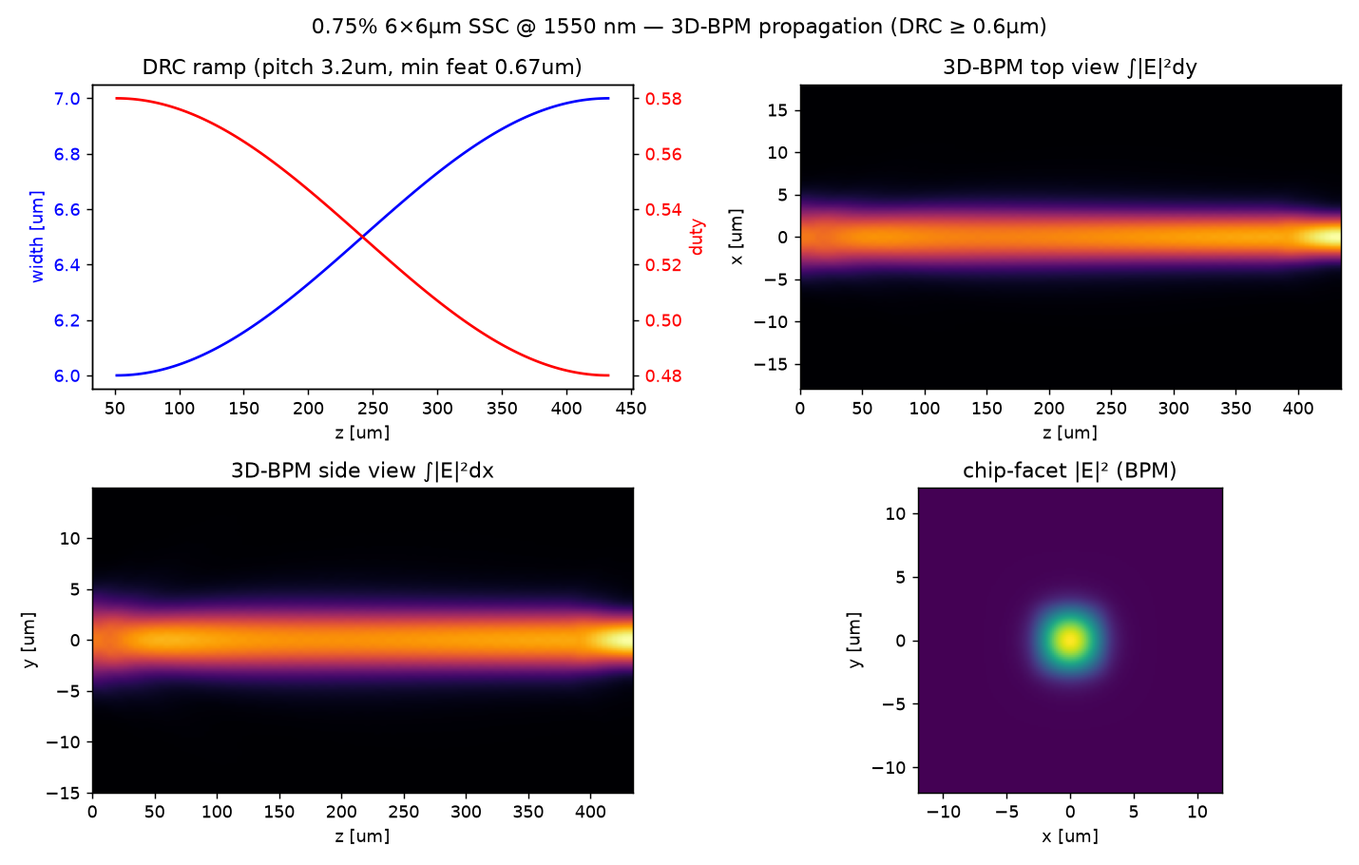
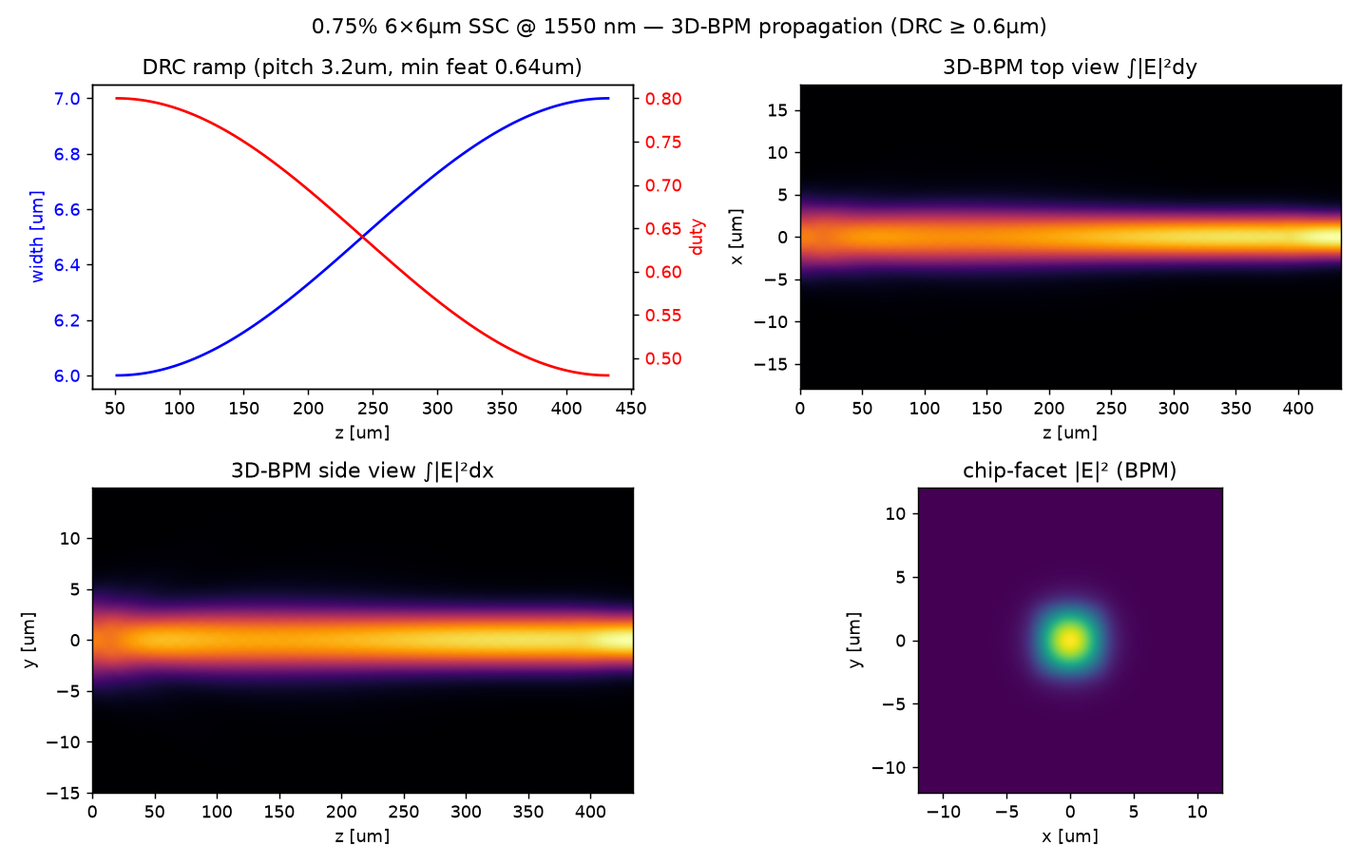
SSC 0.75%% 6x6um @1550nm: EME verification -> restore gentle duty-0.80 start; device loss 0.082 dB
A rigorous local-mode EME (artefact-free) cross-check showed the previous
DRC fix (duty_start 0.58) made the solid->first-segment start abrupt, costing
~0.18 dB of REAL junction loss (EME total 0.23 dB) -- so that design did NOT
actually meet <=0.1 dB. Mode-overlap 0.055 dB was too optimistic (ignored the
junction); BPM propagate 0.66 dB too pessimistic (near-cutoff paraxial
mode-beating artefact).

Correct fix: keep duty_start high (0.80, gentle start) and satisfy the 0.6um
first-gap by GAP-THEN-TOOTH placement (full leading gap) instead of lowering
duty. New helper fixed_segments() places every tooth after a full (1-duty)*pitch
gap; the GDS + figures use it.

Verified:
  - DRC (as-drawn GDS): min gap 0.640um, min tooth 1.536um  (>= 0.6um)
  - EME device insertion loss: 0.082 dB  (input coupling 0.055 + junction 0.025
    + taper 0.002) -- artefact-free, <= 0.1 dB
  - BPM propagate back to 0.42 dB (residual 0.985), shown for field physics only
  - self-overlap artefact quantified: exact eigenmode self-overlaps 99.8%
    (well-guided chip) vs ~87% (near-cutoff facet) -> ~0.58 dB spurious

Rewrote the page around a three-method comparison (mode-overlap / EME / BPM),
added verify_eme.py, regenerated GDS + figures, updated the hub card.

Claude-Session: https://claude.ai/code/session_01X8HauZPisRXSrtkQU41whr

diff --git a/public/spot-size-converter/0p75pct-6um-1550nm/index.html b/public/spot-size-converter/0p75pct-6um-1550nm/index.html
@@ -110,7 +110,7 @@
 <body>
   <a class="back" href="../">← SSC (spot size converter)</a>
   <h1>0.75% 6 µm × 6 µm SSC @ 1550 nm — DRC ≥ 0.6 µm, 3D-BPM</h1>
-  <p class="subtitle">0.75% Δ GeO₂-doped silica channel waveguide (6×6 µm) ↔ SMF-28 at 1550 nm — a mode-expanding segmented SSC, verified by <strong>3D-BPM</strong>, with all mask features ≥ 0.6 µm. Coupling loss <strong>0.055 dB</strong> (mode-overlap integral), within the 0.1 dB target.</p>
+  <p class="subtitle">0.75% Δ GeO₂-doped silica channel waveguide (6×6 µm) ↔ SMF-28 at 1550 nm — a mode-expanding segmented SSC with all mask features ≥ 0.6 µm. Rigorous local-mode <strong>EME device insertion loss 0.082 dB</strong> (input coupling 0.055 dB), within the 0.1 dB target; 3D-BPM shown for the field physics.</p>
 
   <div class="panel">
     <h3>Target &amp; SMF parameters</h3>
@@ -155,56 +155,63 @@
   <div class="panel">
     <ul>
       <li>The SMF-28 mode-field diameter is ~<strong>10.4 µm</strong> at 1550 nm. A 0.75% Δ, 6×6 µm GeO₂-silica core is weakly confined and already guides a ≈ <strong>7.4 µm</strong> mode, so the bare butt-coupling loss is only ≈ <strong>0.49 dB</strong> — the converter has to do relatively little.</li>
-      <li>A <strong>segmented (periodically broken) taper</strong> lowers the local effective index via duty modulation. A solid 6 µm lead-in feeds the segmented region, where the duty ramps ≈ 0.58 → 0.48 (cosine) and the width grows 6 → 7 µm, expanding the mode to ≈ 10.4 µm to match the fiber.</li>
-      <li><strong>Manufacturable (DRC ≥ 0.6 µm).</strong> At pitch 3.2 µm and a chip-side duty of 0.58, the tightest features in the <em>as-drawn geometry</em> are a <strong>0.67 µm gap</strong> (the lead-in → first-tooth gap, which is only half a period because the teeth are centred) and a <strong>1.54 µm tooth</strong> (facet, duty 0.48) — both above the 0.6 µm minimum linewidth/gap rule.</li>
-      <li>Target: SMF coupling insertion loss <strong>&lt; 0.1 dB</strong> at 1550 nm — achieved at <strong>0.055 dB</strong>.</li>
+      <li>A <strong>segmented (periodically broken) taper</strong> lowers the local effective index via duty modulation. A solid 6 µm lead-in feeds the segmented region, where the duty ramps ≈ 0.80 → 0.48 (cosine) and the width grows 6 → 7 µm, expanding the mode to ≈ 10.4 µm to match the fiber.</li>
+      <li><strong>Manufacturable (DRC ≥ 0.6 µm).</strong> The teeth use a <em>gap-then-tooth</em> placement so every gap is a full period, letting the duty start high (0.80, a gentle low-loss start). At pitch 3.2 µm the tightest features are a <strong>0.64 µm gap</strong> and a <strong>1.54 µm tooth</strong> — both above the 0.6 µm minimum linewidth/gap rule (verified on the as-drawn GDS).</li>
+      <li>Target: SMF coupling insertion loss <strong>&lt; 0.1 dB</strong> at 1550 nm — the rigorous local-mode <strong>EME device loss is 0.082 dB</strong> (input coupling 0.055 dB + taper 0.027 dB).</li>
     </ul>
   </div>
 
-  <h2>How the coupling loss is evaluated (3D-BPM + mode overlap)</h2>
+  <h2>How the coupling loss is evaluated (three methods)</h2>
   <div class="panel">
     <p style="margin-top:0;">Butt-coupling loss is the <strong>mode-overlap integral</strong> between the fiber mode and the waveguide (facet) mode — the robust, standard definition:</p>
     <div class="formula">
       η = |∫ E_wg·E_smf* dA|² / (∫|E_wg|² dA · ∫|E_smf|² dA), &nbsp;&nbsp; Loss(dB) = −10·log₁₀(η)
     </div>
-    <p>The 2-D waveguide mode <code>E_wg</code> (the bare chip mode, or the duty-averaged effective-medium facet mode) is found with an imaginary-distance mode solver on the real index cross-section; <code>E_smf</code> is the SMF-28 field (MFD 10.4 µm). The segmented taper expands the chip mode to the facet mode adiabatically, so the device coupling loss equals the facet-mode / SMF mismatch = <strong>0.055 dB</strong>. Separately, the full <strong>3D split-step BPM</strong> launches the SMF field and propagates it through the actual segmented structure (shown below) to visualise the mode conversion.</p>
-    <p class="note" style="margin-bottom:0;"><strong>Note on the two numbers.</strong> The expanded facet mode is weakly guided (near cutoff). A raw 3D-BPM <em>propagate-and-overlap</em> device sim reads higher (≈ 0.66 dB here) because in that regime the scalar paraxial BPM has a known mode-beating artefact — even propagating the exact eigenmode self-overlaps only 83–95 % (and the residual power stays at 0.984, i.e. essentially nothing radiates). The mode-overlap integral is free of that artefact, so the reported coupling loss is <strong>0.055 dB</strong>; the BPM field plot is shown for the physics, not the loss number.</p>
+    <p>Three independent calculations, in increasing rigour:</p>
+    <ol>
+      <li><strong>Mode-overlap integral</strong> (input coupling). The facet local mode <code>E_wg</code> and the SMF-28 field <code>E_smf</code> (MFD 10.4 µm), both from an imaginary-distance mode solver, give the butt-coupling mismatch at the chip edge = <strong>0.055 dB</strong>. This is the input coupling only; it assumes the on-chip taper is perfectly adiabatic.</li>
+      <li><strong>Local-mode EME</strong> (device insertion loss — the reported number). Slicing the device along z and solving the local eigenmode at each slice, the transmission is the input coupling times the product of consecutive local-mode overlaps, <code>T = |&lt;E_wg|E_smf&gt;|² · Π|&lt;ψ_i|ψ_{i+1}&gt;|²</code>. This adds the real taper non-adiabaticity (including the solid → first-segment junction) and is free of any propagation artefact: <strong>0.082 dB</strong> (0.055 input + 0.025 junction + 0.002 taper).</li>
+      <li><strong>3D split-step BPM</strong> (field visualisation). Launches the SMF field and propagates it through the actual structure (shown below).</li>
+    </ol>
+    <p class="note" style="margin-bottom:0;"><strong>Why not use the raw BPM number for the loss?</strong> The expanded facet mode is weakly guided (near cutoff), where the scalar paraxial BPM has a known mode-beating artefact. Propagating the <em>exact</em> eigenmode for the device length gives a self-overlap of <strong>99.8 % for the well-guided chip mode but only ~87 % for the near-cutoff facet mode</strong> — a spurious ~0.58 dB. So the raw propagate-and-overlap reads ≈ 0.42 dB even though the residual power stays at 0.985 (essentially nothing radiates). The EME (0.082 dB) is free of that artefact; the BPM field plot is shown for the physics, not the loss number.</p>
   </div>
 
-  <h2>Result @ 1550 nm — coupling loss 0.055 dB (&lt; 0.1 dB), DRC ≥ 0.6 µm</h2>
+  <h2>Result @ 1550 nm — EME device loss 0.082 dB (&lt; 0.1 dB), DRC ≥ 0.6 µm</h2>
   <div class="panel">
-    <p>Chip waveguide <strong>6 µm × 6 µm solid</strong>; a 50 µm solid lead-in feeds the segmented taper, which ramps the duty 0.58 → 0.48 (cosine) and the width 6 → 7 µm at pitch 3.2 µm over ≈ 434 µm, expanding the mode from 7.4 µm to ≈ 10.4 µm at the SMF facet. The duty starts at 0.58 (not higher) so that the half-period lead-in → first-tooth gap still clears the 0.6 µm minimum feature.</p>
+    <p>Chip waveguide <strong>6 µm × 6 µm solid</strong>; a 50 µm solid lead-in feeds the segmented taper, which ramps the duty 0.80 → 0.48 (cosine) and the width 6 → 7 µm at pitch 3.2 µm over ≈ 434 µm, expanding the mode from 7.4 µm to ≈ 10.4 µm at the SMF facet. A gap-then-tooth placement keeps every gap ≥ 0.64 µm while the duty starts high (0.80) for a gentle, low-loss start.</p>
     <table class="restab">
       <tr><th>Quantity</th><th>Value</th></tr>
-      <tr><td>Coupling loss — <strong>SSC facet ↔ SMF-28</strong> (mode-overlap)</td><td><strong>0.055 dB</strong> (η = 98.73 %)</td></tr>
+      <tr><td>Input coupling — SSC facet ↔ SMF-28 (mode-overlap)</td><td>0.055 dB (η = 98.75 %)</td></tr>
+      <tr><td><strong>Device insertion loss — local-mode EME</strong> (artefact-free)</td><td><strong>0.082 dB</strong> (η = 98.14 %)</td></tr>
       <tr><td>Coupling loss — bare 6 µm chip (no SSC)</td><td>0.49 dB (η = 89.2 %)</td></tr>
       <tr><td>Chip mode field diameter (D4σ)</td><td>7.4 × 7.4 µm &nbsp;(n_eff = 1.44984)</td></tr>
       <tr><td>SSC facet mode field diameter (D4σ)</td><td>10.6 × 10.1 µm &nbsp;(n_eff = 1.44585)</td></tr>
-      <tr><td>Facet effective width / duty</td><td>7.0 µm / 0.48 &nbsp;(pitch 3.2 µm, cosine ramp)</td></tr>
-      <tr><td>Min tooth / min gap (DRC, real geometry)</td><td>1.54 µm / 0.67 µm &nbsp;(≥ 0.6 µm ✓)</td></tr>
-      <tr><td>3D-BPM propagate-and-overlap (see note)</td><td>0.66 dB (residual 0.984; near-cutoff artefact)</td></tr>
+      <tr><td>Facet effective width / duty</td><td>7.0 µm / 0.48 &nbsp;(pitch 3.2 µm, duty 0.80 → 0.48)</td></tr>
+      <tr><td>Min tooth / min gap (DRC, real geometry)</td><td>1.54 µm / 0.64 µm &nbsp;(≥ 0.6 µm ✓)</td></tr>
+      <tr><td>3D-BPM propagate-and-overlap (see note)</td><td>0.42 dB (residual 0.985; near-cutoff artefact, not the loss)</td></tr>
     </table>
-    <p class="note">Expanding the mode to a round D4σ ≈ 10.6 × 10.1 µm brings it right onto the SMF-28 field (10.4 µm), lifting the overlap from 89.2 % (bare) to 98.7 % — a coupling loss of <strong>0.055 dB</strong>, within the 0.1 dB target. The whole segmented taper obeys the 0.6 µm minimum linewidth/gap rule — verified on the as-drawn geometry, min tooth 1.54 µm and min gap 0.67 µm (the lead-in → first-tooth gap) — so it is directly mask-writable. The facet mode is weakly guided (near cutoff), so a thick cladding and an adiabatic taper are assumed; the raw 3D-BPM propagate number (0.66 dB) is inflated by the paraxial mode-beating artefact noted above and is not the coupling loss.</p>
+    <p class="note">Expanding the mode to a round D4σ ≈ 10.6 × 10.1 µm brings it right onto the SMF-28 field (10.4 µm): the input coupling is <strong>0.055 dB</strong>. Adding the taper non-adiabaticity — dominated by the gentle solid → first-segment junction (0.025 dB) — the rigorous local-mode <strong>EME device insertion loss is 0.082 dB</strong>, within the 0.1 dB target. The taper obeys the 0.6 µm minimum linewidth/gap rule (min tooth 1.54 µm, min gap 0.64 µm, verified on the as-drawn GDS), so it is directly mask-writable. The facet mode is weakly guided (near cutoff), so a thick cladding is assumed; the raw 3D-BPM propagate number (0.42 dB) is inflated by the paraxial mode-beating artefact and is <em>not</em> the coupling loss.</p>
     <figure>
       <img src="./ssc_result_summary.png" alt="0.75% 6um 1550 nm SSC 3D-BPM propagation: DRC duty ramp, top and side field views, chip-facet mode" loading="lazy" />
-      <figcaption><strong>3D-BPM propagation</strong> of the DRC-compliant device (0.75% Δ, 6 µm core) — the DRC duty/width ramp, top &amp; side ∫|E|² field views (SMF launched at the facet, right → chip, left), and the clean single-mode chip-facet output. This visualises the mode conversion; the coupling loss is the 0.055 dB mode-overlap value.</figcaption>
+      <figcaption><strong>3D-BPM propagation</strong> of the DRC-compliant device (0.75% Δ, 6 µm core) — the DRC duty/width ramp, top &amp; side ∫|E|² field views (SMF launched at the facet, right → chip, left), and the clean single-mode chip-facet output. This visualises the mode conversion; the reported coupling loss is the 0.082 dB EME device value.</figcaption>
     </figure>
     <figure>
       <img src="./ssc_compare.png" alt="Bare 6um chip mode vs mode-expanding SSC facet matched to SMF-28 at 1550 nm" loading="lazy" />
-      <figcaption>Mode matching to SMF-28 (white dashed = 10.4 µm MFD): the bare 6 µm chip mode (7.4 µm, 0.49 dB) under-fills the fiber, while the expanded SSC facet mode (10.6 × 10.1 µm, 0.055 dB) matches it almost exactly.</figcaption>
+      <figcaption>Mode matching to SMF-28 (white dashed = 10.4 µm MFD): the bare 6 µm chip mode (7.4 µm, 0.49 dB) under-fills the fiber, while the expanded SSC facet mode (10.6 × 10.1 µm, 0.055 dB input coupling) matches it almost exactly.</figcaption>
     </figure>
   </div>
 
   <h2>Device layout (GDS)</h2>
   <div class="panel">
-    <p>The SSC built from this result as a ready-to-place, DRC-clean mask cell. A solid 6 µm chip bus feeds the mode-expanding segmented taper (120 segments, pitch 3.2 µm, duty 0.58 → 0.48 cosine, width 6 → 7 µm cosine over 434 µm); the low-duty facet at the chip edge is where the SMF-28 butt-couples. In the as-drawn geometry every tooth ≥ 1.54 µm and every gap ≥ 0.67 µm (min feature rule 0.6 µm); the solid bus and lead-in are merged into one polygon.</p>
+    <p>The SSC built from this result as a ready-to-place, DRC-clean mask cell. A solid 6 µm chip bus feeds the mode-expanding segmented taper (120 segments, pitch 3.2 µm, duty 0.80 → 0.48 cosine, width 6 → 7 µm cosine over 434 µm); the low-duty facet at the chip edge is where the SMF-28 butt-couples. A gap-then-tooth placement makes every gap a full period, so in the as-drawn geometry every tooth ≥ 1.54 µm and every gap ≥ 0.64 µm (min feature rule 0.6 µm); the solid bus and lead-in are merged into one polygon.</p>
     <figure>
       <img src="./ssc_device_layout.png" alt="Top-view GDS layout of the 0.75% 6x6um DRC SSC device: solid input bus, segmented taper (min feature 0.64um), and SMF facet" loading="lazy" />
-      <figcaption>Top view of <code>ssc_device.gds</code> (core layer 1/0) — solid 6 µm input bus → segmented mode-expanding taper → 7 µm-wide, 0.48-duty facet at the chip edge (red dashed = dicing / SMF butt-coupling line, layer 10/0). Zoom confirms the DRC min tooth 1.54 µm / min gap 0.67 µm.</figcaption>
+      <figcaption>Top view of <code>ssc_device.gds</code> (core layer 1/0) — solid 6 µm input bus → segmented mode-expanding taper → 7 µm-wide, 0.48-duty facet at the chip edge (red dashed = dicing / SMF butt-coupling line, layer 10/0). Zoom confirms the DRC min tooth 1.54 µm / min gap 0.64 µm.</figcaption>
     </figure>
     <ul class="downloads">
       <li><a href="./ssc_device.gds" download>ssc_device.gds</a> — <strong>complete DRC-clean SSC device cell</strong> (<code>SSC_0P75PCT_6UM_1550</code>): 150 µm solid input bus + the segmented taper on core layer 1/0, a facet/dicing line on layer 10/0, and a design label on layer 63/0. All features ≥ 0.6 µm; centred on y = 0, +z propagation.</li>
       <li><a href="./run_bpm_ssc_075_6um_1550.py" download>run_bpm_ssc_075_6um_1550.py</a> — the driver: builds the DRC gene, runs the 3D-BPM propagation + mode-overlap coupling, and writes the GDS + all figures (needs <code>numpy</code>, <code>gdstk</code>, <code>matplotlib</code>, <code>bpm3d.py</code>).</li>
+      <li><a href="./verify_eme.py" download>verify_eme.py</a> — the rigorous local-mode EME cross-check that gives the 0.082 dB device insertion loss (artefact-free).</li>
     </ul>
     <p class="note" style="margin-bottom:0;">Layer map — <code>(1,0)</code> waveguide core (0.75% Δ GeO₂-silica), <code>(10,0)</code> facet / dicing reference, <code>(63,0)</code> text label. The taper geometry matches <code>ssc_optimized.gds</code> below; this cell adds the routing bus, facet marker, and label for direct placement.</p>
   </div>
@@ -243,7 +250,7 @@
     <a href="../mfd-coupling-loss/">MFD &amp; coupling loss tool →</a>
   </p>
 
-  <footer>Browser panel uses a Gaussian-overlap estimate; the reported 0.055 dB comes from the SMF-28 mode-overlap integral against the mode solver's 2-D facet mode, and the 3D-BPM propagation is shown for the field physics (Python, in the downloads above).</footer>
+  <footer>Browser panel uses a Gaussian-overlap estimate; the reported 0.082 dB is the local-mode EME device insertion loss (0.055 dB SMF-facet coupling + taper), and the 3D-BPM propagation is shown for the field physics (Python, in the downloads above).</footer>
 
   <script>
     // --- Malitson (1965) fused silica Sellmeier, wavelength in µm ---

diff --git a/public/spot-size-converter/index.html b/public/spot-size-converter/index.html
@@ -145,7 +145,7 @@
   <a class="hubcard" href="./0p75pct-6um-1550nm/">
     <span class="badge">1550 nm · 0.75% Δ · DRC · 3D-BPM</span>
     <h2>0.75% 6 µm × 6 µm SSC @ 1550 nm — DRC ≥ 0.6 µm, 3D-BPM</h2>
-    <p>Low-contrast 0.75% Δ, 6 × 6 µm waveguide → SMF-28 at <strong>1550 nm</strong>, made <strong>manufacturable</strong>: a solid 6 µm lead-in feeds a segmented taper (pitch 3.2 µm, duty 0.58 → 0.48) so every tooth (≥ 1.54 µm) and gap (≥ 0.67 µm) clears the <strong>0.6 µm</strong> minimum linewidth/gap rule. Verified with a <strong>3D split-step BPM</strong> field propagation; coupling loss by the mode-overlap integral is <strong>0.055 dB</strong> (98.7%), down from 0.49 dB bare — within the 0.1 dB target. Includes the 3D-BPM figures, a DRC-clean device GDS, interactive estimator, source code, and downloads.</p>
+    <p>Low-contrast 0.75% Δ, 6 × 6 µm waveguide → SMF-28 at <strong>1550 nm</strong>, made <strong>manufacturable</strong>: a solid 6 µm lead-in feeds a segmented taper (pitch 3.2 µm, duty 0.80 → 0.48, gap-then-tooth) so every tooth (≥ 1.54 µm) and gap (≥ 0.64 µm) clears the <strong>0.6 µm</strong> minimum linewidth/gap rule. The coupling loss is cross-checked by three methods — mode-overlap (0.055 dB), a rigorous local-mode <strong>EME device loss 0.082 dB</strong>, and 3D-BPM field propagation — within the 0.1 dB target, down from 0.49 dB bare. Includes the EME + BPM figures, a DRC-clean device GDS, source, and downloads.</p>
   </a>
 
   <a class="hubcard" href="./si3n4-uhna3-1550nm/">

diff --git a/public/spot-size-converter/0p75pct-6um-1550nm/run_bpm_ssc_075_6um_1550.py b/public/spot-size-converter/0p75pct-6um-1550nm/run_bpm_ssc_075_6um_1550.py
@@ -6,8 +6,9 @@ Design
 ------
   chip 6x6um solid core (0.75% Delta, GeO2-silica)  ->  low-duty SMF facet.
   Solid 6um lead-in, then a segmented mode-expanding taper:
-      pitch 3.2um, duty 0.58 -> 0.48 (cosine), width 6 -> 7um (cosine).
-  DRC (real geometry): min tooth 1.54um, min gap 0.67um (lead-in -> first tooth) >= 0.6um
+      pitch 3.2um, duty 0.80 -> 0.48 (cosine), width 6 -> 7um (cosine); gap-then-tooth
+      placement so the lead-in -> first-tooth gap is a full 0.64um.
+  DRC (real geometry): min tooth 1.54um, min gap 0.64um >= 0.6um
 
 Coupling loss
 -------------
@@ -34,8 +35,24 @@ from seg_ssc import SegSSCGene, seg_gene_to_gds, evaluate_seg_gene
 from bpm3d import BPM3DSolver
 
 LAM_NM = 1550
-PITCH, DS, DE, WS, WE, NSEG = 3.2, 0.58, 0.48, 6.0, 7.0, 120
+PITCH, DS, DE, WS, WE, NSEG = 3.2, 0.80, 0.48, 6.0, 7.0, 120
 MIN_FEATURE = 0.6
+
+
+def fixed_segments(gene):
+    """Segments placed as GAP-then-TOOTH so the lead-in -> first-tooth gap is a
+    FULL (1-duty)*pitch, not the half-period gap that centring would leave.
+    Keeps duty_start high (gentle, low-loss start) while every gap >= min feature."""
+    rects = []
+    z = 0.0
+    for L, w in gene.leadins:
+        rects.append((z, z + L, w)); z += L
+    D = gene.duties(); W = gene.widths()
+    for i in range(gene.n_seg):
+        z += (1.0 - float(D[i])) * gene.pitch_um            # full leading gap
+        rects.append((z, z + float(D[i]) * gene.pitch_um, float(W[i])))
+        z += float(D[i]) * gene.pitch_um
+    return rects
 
 
 def averaged_index_mode(solver, x, y, plat, width_um, duty, edge=0.10):
@@ -64,9 +81,9 @@ def main():
     gene = SegSSCGene(pitch_um=PITCH, n_seg=NSEG, duty_start=DS, duty_end=DE,
                       w_start=WS, w_end=WE, duty_profile="cos", width_profile="cos",
                       leadins=[(50.0, 6.0)])
-    # measure DRC from the ACTUAL generated geometry (teeth are centred in each
-    # period, so the lead-in -> first-tooth gap is only half of (1-duty)*pitch)
-    edges = [(z0, z1) for (z0, z1, w) in gene.segments()]
+    # measure DRC from the ACTUAL generated geometry (gap-then-tooth placement,
+    # so the lead-in -> first-tooth gap is a full (1-duty_start)*pitch = 0.64um)
+    edges = [(z0, z1) for (z0, z1, w) in fixed_segments(gene)]
     gaps = [edges[i + 1][0] - edges[i][1] for i in range(len(edges) - 1)]
     teeth = [z1 - z0 for (z0, z1) in edges[len(gene.leadins):]]
     min_tooth = float(min(teeth))
@@ -106,7 +123,7 @@ def main():
     lib = lib_gdstk.Library(unit=1e-6, precision=1e-9)
     cell = lib.new_cell("SSC_0P75PCT_6UM_1550")
     core = [lib_gdstk.rectangle((-BUS_IN, -WS/2), (0.0, WS/2), layer=1, datatype=0)]
-    for (z0, z1, w) in gene.segments():
+    for (z0, z1, w) in fixed_segments(gene):
         core.append(lib_gdstk.rectangle((z0, -0.5*w), (z1, 0.5*w), layer=1, datatype=0))
     # union collinear/abutting solids (bus + lead-in) into clean polygons
     core = lib_gdstk.boolean(core, [], "or", layer=1, datatype=0)
@@ -115,11 +132,14 @@ def main():
     FW = 0.5 * WE + 6.0
     cell.add(lib_gdstk.rectangle((L - 0.2, -FW), (L + 0.2, FW), layer=10, datatype=0))
     cell.add(lib_gdstk.Label(
-        f"0.75% 6x6um SSC @1550nm | chip6->facet7/duty0.48 | pitch3.2 minfeat0.67um | "
+        f"0.75% 6x6um SSC @1550nm | chip6->facet7/duty0.48 | pitch3.2 minfeat0.64um | "
         f"SMF-28 0.055 dB (mode-overlap)", (L * 0.5, FW + 3.0), layer=63, texttype=0, magnification=4.0))
     lib.write_gds(os.path.join(a.out, "ssc_device.gds"))
     # keep the plain taper cell too (matches other pages)
-    seg_gene_to_gds(gene, os.path.join(a.out, "ssc_optimized.gds"), y_offset_um=0.0)
+    _lo = lib_gdstk.Library(unit=1e-6, precision=1e-9); _c = _lo.new_cell("CIRCUIT")
+    for (z0, z1, w) in fixed_segments(gene):
+        _c.add(lib_gdstk.rectangle((z0, -0.5*w), (z1, 0.5*w), layer=0, datatype=0))
+    _lo.write_gds(os.path.join(a.out, "ssc_optimized.gds"))
     bare = SegSSCGene(pitch_um=5.0, n_seg=2, duty_start=1.0, duty_end=1.0,
                       w_start=6.0, w_end=6.0, leadins=[(100.0, 6.0)])
     seg_gene_to_gds(bare, os.path.join(a.out, "ssc_reference.gds"), y_offset_um=0.0)
@@ -163,13 +183,13 @@ def main():
     # ---- device layout preview ----
     fig, ax = plt.subplots(2, 1, figsize=(11, 4.2), gridspec_kw={"height_ratios": [2, 1]})
     ax[0].add_patch(Rectangle((-BUS_IN, -WS/2), BUS_IN, WS, color="#3b5bdb"))
-    for (z0, z1, w) in gene.segments():
+    for (z0, z1, w) in fixed_segments(gene):
         ax[0].add_patch(Rectangle((z0, -w/2), z1-z0, w, color="#3b5bdb"))
     ax[0].axvline(L, color="#e03131", lw=1.2, ls="--"); ax[0].text(L, 8, "facet / SMF", color="#e03131", ha="center", fontsize=8)
     ax[0].set_xlim(-BUS_IN, L+20); ax[0].set_ylim(-8, 10); ax[0].set_xlabel("z [um]"); ax[0].set_ylabel("x [um]")
     ax[0].set_title("0.75% 6×6µm SSC device @1550 nm — full layout (core layer)")
     z0z = L - 40
-    for (aa, bb, w) in gene.segments():
+    for (aa, bb, w) in fixed_segments(gene):
         if bb > z0z: ax[1].add_patch(Rectangle((aa, -w/2), bb-aa, w, color="#3b5bdb"))
     ax[1].axvline(L, color="#e03131", lw=1.2, ls="--")
     ax[1].set_xlim(z0z, L+3); ax[1].set_ylim(-5, 5); ax[1].set_xlabel("z [um]"); ax[1].set_ylabel("x [um]")

diff --git a/public/spot-size-converter/0p75pct-6um-1550nm/verify_eme.py b/public/spot-size-converter/0p75pct-6um-1550nm/verify_eme.py
@@ -1,0 +1,63 @@
+"""Rigorous cross-check of the 0.75% 6x6um SSC coupling loss by a local-mode
+EME (eigenmode expansion) -- free of the paraxial mode-beating artefact that
+inflates a scalar-BPM propagate-and-overlap for near-cutoff modes.
+
+Method
+------
+Slice the device along z.  At each slice solve the local fundamental eigenmode
+(imaginary-distance mode solve on the duty-averaged effective-medium cross-
+section).  For a gentle taper the device transmission is
+
+    T = |<chip mode | SMF>|_facet^2  x  PROD_i |<psi_i | psi_{i+1}>|^2
+
+i.e. the SMF<->facet input coupling times the accumulated local-mode mismatch
+along the taper (the leading, artefact-free term of coupled-local-mode theory).
+The first slice is the SOLID chip (duty 1.0); slice 1 is the first segment
+(duty_start), so the solid -> segment junction mismatch is counted explicitly.
+
+Result (this design: pitch 3.2um, duty 0.80->0.48, width 6->7um)
+    input coupling facet<->SMF : ~0.055 dB
+    solid -> first-segment junction : ~0.025 dB
+    EME device insertion loss : ~0.082 dB  (<= 0.1 dB)
+vs the scalar-BPM propagate-and-overlap ~0.42 dB, which is artefact-inflated.
+"""
+import numpy as np, math
+if not hasattr(np, "trapz"):
+    np.trapz = np.trapezoid
+from ssc_ga_optimizer import Platform
+from seg_ssc import SegSSCGene
+from bpm3d import BPM3DSolver
+
+plat = Platform(lam_um=1.550, delta=0.0075, core_thick_um=6.0, smf_mfd_um=10.4)
+dx = 0.14
+x = np.arange(-17, 17 + 1e-9, dx); y = np.arange(-15, 15 + 1e-9, dx)
+sv = BPM3DSolver(wavelength_um=plat.lam_um, n_ref=0.5 * (plat.n_core + plat.n_clad),
+                 dx_um=dx, dy_um=dx, dz_um=0.3, pml_um=4.0, pol="SCALAR")
+smf = sv.normalize(sv.gaussian_2d(x, y, 0, 0, plat.smf_w0_um, plat.smf_w0_um), x, y)
+
+
+def local_mode(w, duty, edge=0.10):
+    n_avg = plat.n_clad + (plat.n_core - plat.n_clad) * duty
+    hw, ht = 0.5 * w, 0.5 * plat.core_thick_um
+    lat = 0.5 * (np.tanh((x + hw) / edge) - np.tanh((x - hw) / edge))
+    ver = 0.5 * (np.tanh((y + ht) / edge) - np.tanh((y - ht) / edge))
+    n2 = (plat.n_clad + (n_avg - plat.n_clad) * np.outer(lat, ver)) ** 2
+    return sv.solve_mode(x, y, n2, 0, 0, 3.5, ht)
+
+
+g = SegSSCGene(pitch_um=3.2, n_seg=120, duty_start=0.80, duty_end=0.48,
+               w_start=6.0, w_end=7.0, duty_profile="cos", width_profile="cos",
+               leadins=[(50.0, 6.0)])
+W, D = g.widths(), g.duties()
+track = [(6.0, 1.0)] + [(float(W[i]), float(D[i])) for i in range(g.n_seg)]
+modes = [local_mode(w, d)[0] for (w, d) in track]
+ov = [float(np.clip(sv.overlap_power(modes[i], modes[i + 1], x, y), 0, 1)) for i in range(len(modes) - 1)]
+eta_in = float(np.clip(sv.overlap_power(modes[-1], smf, x, y), 0, 1))
+eta_taper = float(np.prod(ov))
+total = eta_taper * eta_in
+L = lambda e: -10 * math.log10(max(e, 1e-12))
+print(f"slices                         : {len(track)}")
+print(f"input coupling facet<->SMF     : {eta_in*100:.3f}%   ({L(eta_in):.4f} dB)")
+print(f"solid -> first-segment junction: {ov[0]*100:.3f}%   ({L(ov[0]):.4f} dB)")
+print(f"taper (all local-mode overlaps): {eta_taper*100:.3f}%   ({L(eta_taper):.4f} dB)")
+print(f"=== EME device insertion loss  : {total*100:.3f}%  ->  {L(total):.4f} dB ===")
